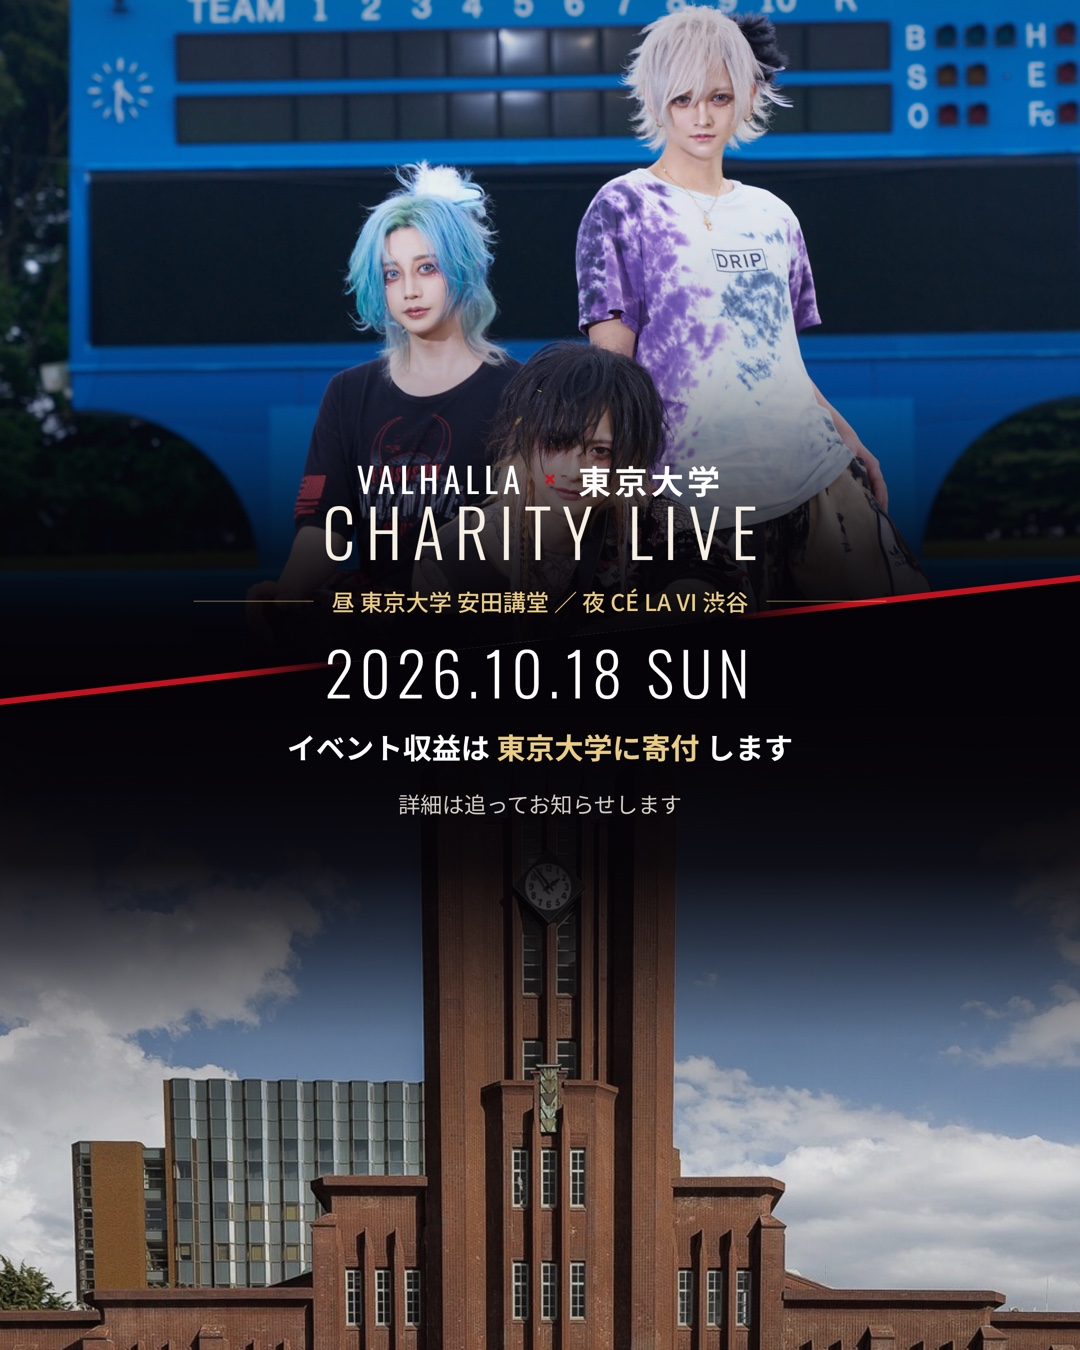
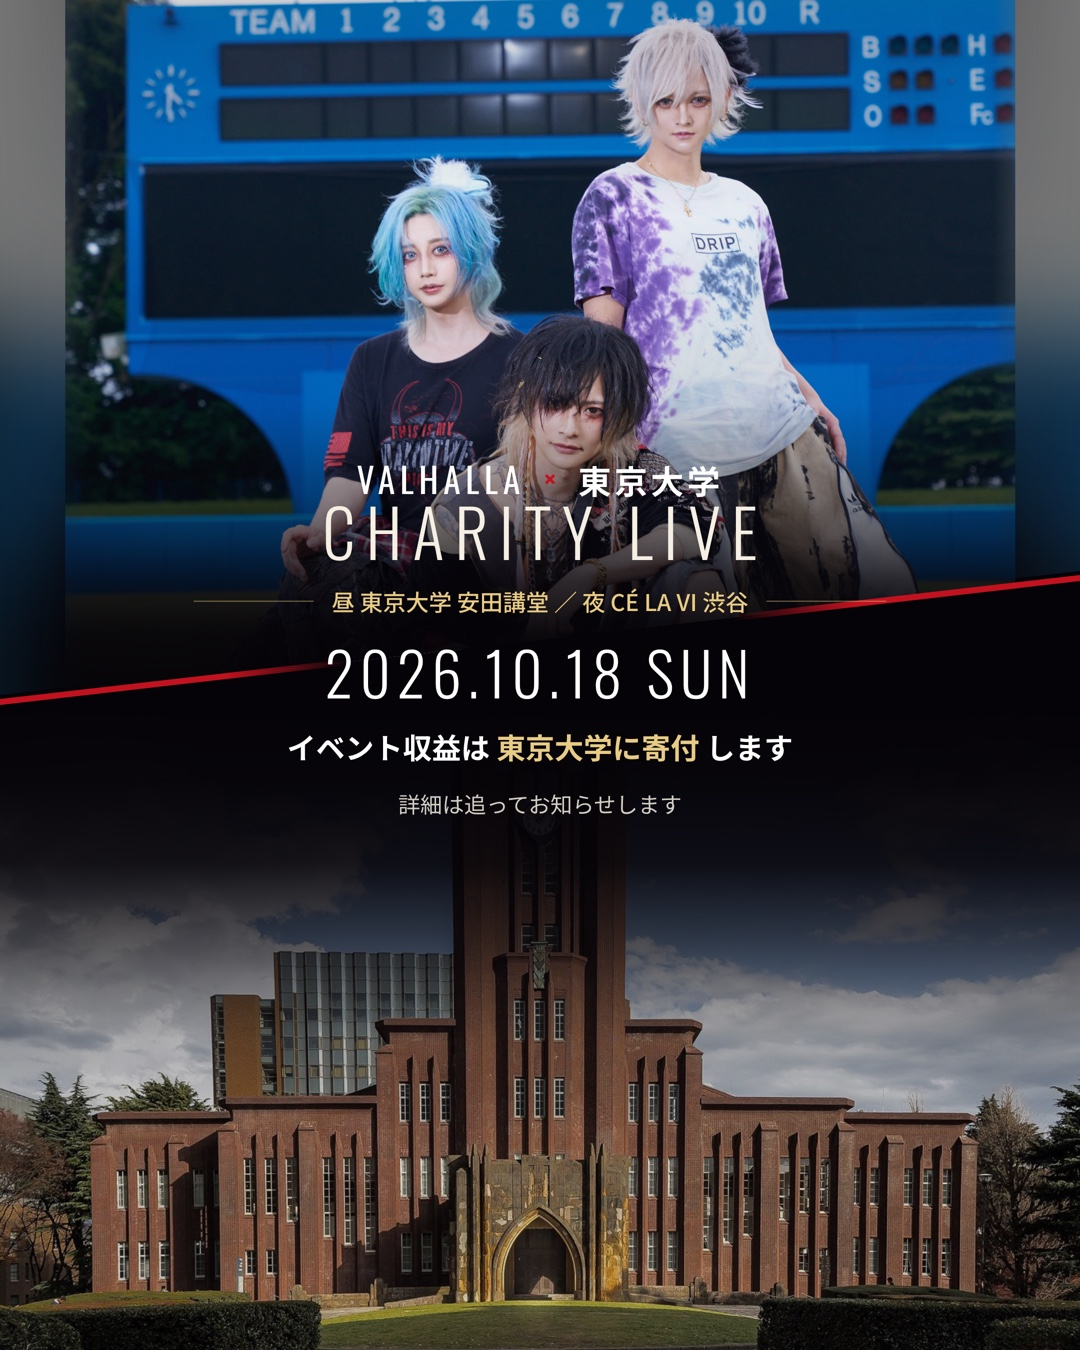
告知ティザー：3人の顔をグラデから外し、安田講堂を引きに
kazuma 指摘「下の東京大学の画像をもっと引きに／上の3人の顔に
グラデーションが被っているので改善して」。

- 上半分：3人が縦に散った構図のため、写真を引いて上半分に収めた。
  左右に出る隙間は同じ写真のぼかし面（.upbg）を敷いて埋め、
  前面写真の左右8%をマスクでフェードさせて溶かしている
  t45 88%/-419px ・ t11 70%/-337px ・ t916 100%/-400px
- 上側スクリムの効き始めも遅らせ、顔に暗幕が掛からないようにした
- 下半分：安田講堂を引いて建物の左右の翼まで入る大きさに
  t45 100%/649px ・ t11 100%/379px ・ t916 134%/982px
  （中央の暗い帯が完全に黒くなる位置までは画像で埋める必要があるため、
  　これが全景を見せられる限界）

3サイズとも MIO / KØU / RAY の顔がクリアで、安田講堂が全景で入ることを確認済み。

diff --git a/flyer-teaser.html b/flyer-teaser.html
@@ -36,8 +36,15 @@
   .board.t916{height:1920px;--mid:930px}
 
   /* ── 上半分：VALHALLA ── */
-  .up{position:absolute;inset:0;z-index:0;background-repeat:no-repeat;
+  .upbg,.up{position:absolute;inset:0;z-index:0;background-repeat:no-repeat;
     clip-path:polygon(0 0,100% 0,100% calc(var(--mid) - var(--drop)),0 calc(var(--mid) + var(--drop)))}
+  /* 隙間を埋めるぼかし面 */
+  .upbg{background-image:url('assets/charity/group_field.jpg');
+    background-size:cover;background-position:center 28%;
+    filter:blur(44px) brightness(.46) saturate(.85);transform:scale(1.2)}
+  /* 前面の実寸写真（左右をフェードさせてぼかし面に溶かす） */
+  .up{-webkit-mask-image:linear-gradient(90deg,transparent 0,#000 8%,#000 92%,transparent 100%);
+    mask-image:linear-gradient(90deg,transparent 0,#000 8%,#000 92%,transparent 100%)}
   /* ── 下半分：東京大学 安田講堂 ── */
   .dn{position:absolute;inset:0;z-index:0;background-repeat:no-repeat;
     clip-path:polygon(0 calc(var(--mid) + var(--drop)),100% calc(var(--mid) - var(--drop)),100% 100%,0 100%)}
@@ -45,8 +52,8 @@
   /* 中央に向かって暗く落とすスクリム（写真の上に重ねる） */
   .up::after,.dn::after{content:"";position:absolute;inset:0}
   .up::after{background:linear-gradient(180deg,
-      rgba(5,3,7,.18) 0%, rgba(5,3,7,.06) 14%, rgba(5,3,7,.20) 27%,
-      rgba(5,3,7,.54) 35%, rgba(5,3,7,.86) 41%, rgba(5,3,7,.98) 46%, #050307 51%)}
+      rgba(5,3,7,.18) 0%, rgba(5,3,7,.05) 16%, rgba(5,3,7,.14) 30%,
+      rgba(5,3,7,.46) 37%, rgba(5,3,7,.84) 43%, rgba(5,3,7,.97) 47%, #050307 52%)}
   .dn::after{background:linear-gradient(0deg,
       rgba(5,3,7,.18) 0%, rgba(5,3,7,.08) 13%, rgba(5,3,7,.28) 23%,
       rgba(5,3,7,.66) 30%, rgba(5,3,7,.92) 36%, rgba(5,3,7,.98) 42%, #050307 48%)}
@@ -89,9 +96,9 @@
 
   /* ---------- 1080x1350 ---------- */
   .t45 .up{background-image:url('assets/charity/group_field.jpg');
-    background-size:100% auto;background-position:center -492px}
+    background-size:88% auto;background-position:center -419px}
   .t45 .dn{background-image:url('assets/charity/venue/yasuda1.jpg');
-    background-size:145% auto;background-position:48% 640px}
+    background-size:100% auto;background-position:center 649px}
   .t45 .up-tag{top:34px}
   .t45 .dn-tag{bottom:30px}
   .t45 .tag b{font-size:29px}
@@ -111,9 +118,9 @@
 
   /* ---------- 1080x1080 ---------- */
   .t11 .up{background-image:url('assets/charity/group_field.jpg');
-    background-size:100% auto;background-position:center -484px}
+    background-size:70% auto;background-position:center -337px}
   .t11 .dn{background-image:url('assets/charity/venue/yasuda1.jpg');
-    background-size:145% auto;background-position:48% 510px}
+    background-size:100% auto;background-position:center 379px}
   .t11 .up-tag{top:28px}
   .t11 .dn-tag{bottom:24px}
   .t11 .tag b{font-size:26px}
@@ -133,9 +140,9 @@
 
   /* ---------- 1080x1920 ---------- */
   .t916 .up{background-image:url('assets/charity/group_field.jpg');
-    background-size:100% auto;background-position:center -220px}
+    background-size:100% auto;background-position:center -400px}
   .t916 .dn{background-image:url('assets/charity/venue/yasuda1.jpg');
-    background-size:165% auto;background-position:48% 930px}
+    background-size:134% auto;background-position:48% 982px}
   .t916 .up-tag{top:150px}
   .t916 .dn-tag{bottom:120px}
   .t916 .tag b{font-size:34px}
@@ -157,6 +164,7 @@
 <body>
 
 <section class="board t45">
+  <div class="upbg"></div>
   <div class="up"></div>
   <div class="dn"></div>
   <div class="slash"></div>
@@ -174,6 +182,7 @@
 
 
 <section class="board t11">
+  <div class="upbg"></div>
   <div class="up"></div>
   <div class="dn"></div>
   <div class="slash"></div>
@@ -191,6 +200,7 @@
 
 
 <section class="board t916">
+  <div class="upbg"></div>
   <div class="up"></div>
   <div class="dn"></div>
   <div class="slash"></div>

diff --git a/docs/celavi-afterparty.md b/docs/celavi-afterparty.md
@@ -126,6 +126,12 @@
       画面を斜めの線で上下に割り、**上半分＝VALHALLA／下半分＝東京大学 安田講堂**。
       上端・下端に向かうほど写真がくっきり、中央に向かうほど暗く落として、
       その暗い帯に文字を置く。斜線（クリムゾン）は文字を避けて左右にだけ走らせる。
+    - 調整の基準（kazuma 2026-08-28）:
+      ① **上の3人は顔にグラデを掛けない**。3人が縦に散った構図なので、
+         写真を引いて3人を上半分に収める。左右に出る隙間は同じ写真のぼかし面（.upbg）で埋める
+      ② **下の安田講堂は引き**。建物の左右の翼まで入る大きさにする
+      現在値: .up = t45 88%/-419px ・ t11 70%/-337px ・ t916 100%/-400px
+      　　　　.dn = t45 100%/649px ・ t11 100%/379px ・ t916 134%/982px
     - 載せるもの: VALHALLA × 東京大学 ／
       CHARITY LIVE ／ 日付 ／ 昼夜の会場 ／ 収益は東大へ寄付 ／「詳細は追ってお知らせします」
     - 載せないもの: 価格・タイムテーブル・席の特典・社塾・シャンパンコール
